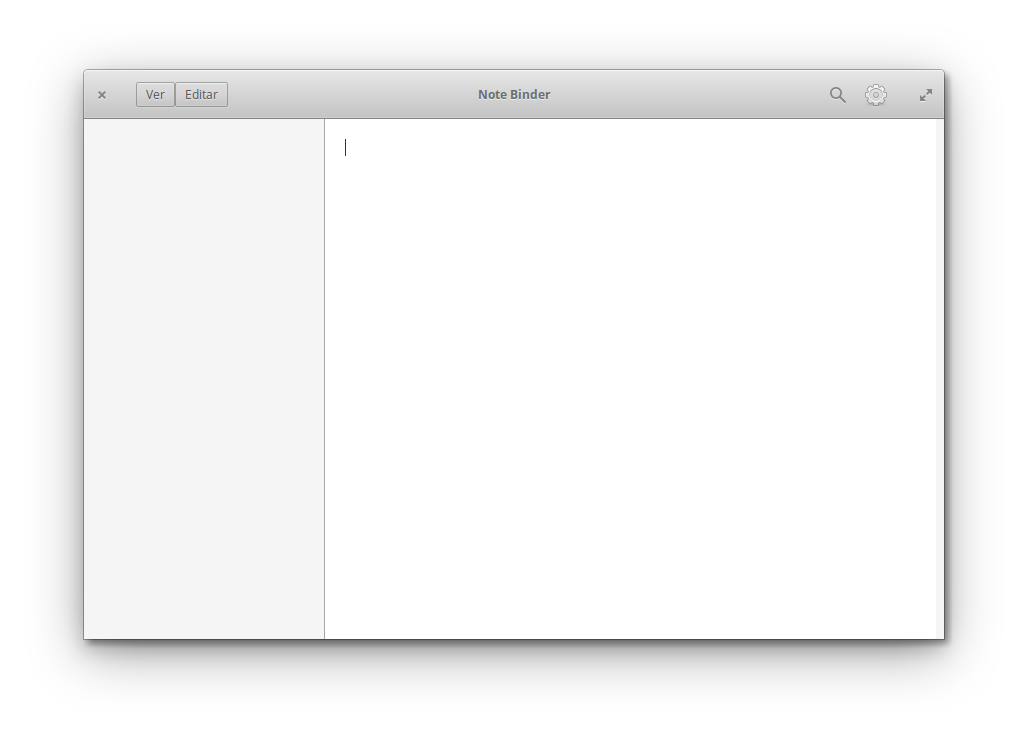
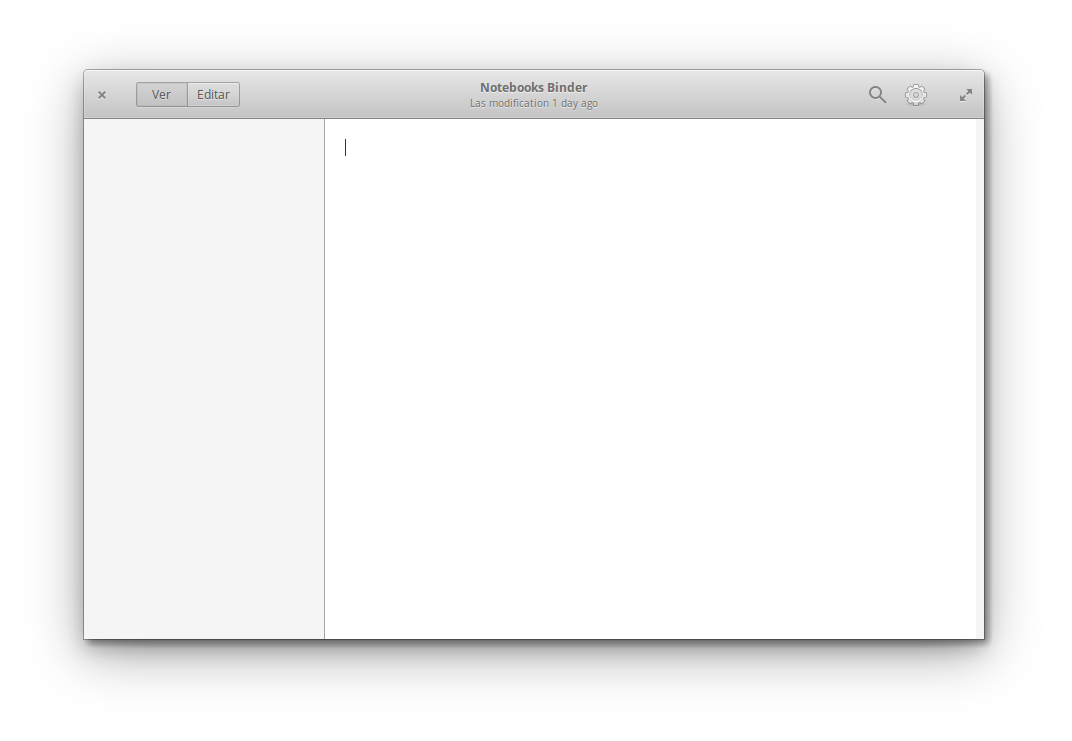
Adds Mode buttons and stylesheet

diff --git a/src/binder/data/application.css b/src/binder/data/application.css
@@ -1,0 +1,11 @@
+#main_window {
+    transition-property: background-color;
+    transition-duration: 300ms;
+}
+
+#main_window.edit_mode {
+    background-color: #fff;
+}
+
+#main_window.view_mode {
+}

diff --git a/src/binder/application.py b/src/binder/application.py
@@ -5,28 +5,45 @@ import gi
 from binder.widgets.Window import Window
 
 gi.require_version('Gtk', '3.0')
-from gi.repository import Gio
-from gi.repository import Gtk, GObject
-from gi.repository import GtkSource
+gi.require_version('GtkSource', '3.0')
 
+from gi.repository import Gio
+from gi.repository import Gtk
+from gi.repository import Gdk
+from gi.repository import GObject
+from gi.repository import GtkSource
 
 
 class Application(Gtk.Application):
     def __init__(self):
         Gtk.Application.__init__(self, flags=Gio.ApplicationFlags.FLAGS_NONE)
         GObject.type_register(GtkSource.View)
-
-        self.running = False
-        self.license_type = Gtk.License.GPL_2_0
-        self.set_application_id('com.github.mariocesar.notebooks')
         self.program_name = 'binder'
+        self.license_type = Gtk.License.GPL_2_0
+        self.running = False
+        self.set_application_id('com.github.mariocesar.binder')
+
         self.builder = Gtk.Builder()
-        self.builder.add_from_file(os.path.join(os.path.dirname(__file__), 'data/main.ui'))
+        self.builder.set_application(self)
+        self.builder.add_from_file(os.path.join(os.path.dirname(__file__), 'data/main.glade'))
+
         self.get_object = self.builder.get_object
+
+    def get_main_window(self):
+        window = Window(self)
+        provider = Gtk.CssProvider()
+        provider.load_from_path(os.path.join(os.path.dirname(__file__), 'data/application.css'))
+
+        Gtk.StyleContext.add_provider_for_screen(
+            Gdk.Screen.get_default(),
+            provider,
+            Gtk.STYLE_PROVIDER_PRIORITY_APPLICATION
+        )
+        return window
 
     def do_activate(self):
         if not self.running:
-            self.window = Window(self)
+            self.window = self.get_main_window()
             self.add_window(self.window)
             self.running = True
 

diff --git a/src/binder/widgets/Window.py b/src/binder/widgets/Window.py
@@ -1,24 +1,32 @@
 import gi
 
+from binder.widgets.ModeButton import ModeButton
+
 gi.require_version('Gtk', '3.0')
 
 from gi.repository import Gtk
 
 
 class Window(Gtk.ApplicationWindow):
-    def __init__(self, app: Gtk.Application, **kwargs):
+    def __init__(self, app, **kwargs):
         super().__init__(**kwargs)
-        self.app = app
-        self.set_default_size(860, 520)
+        self.set_application(app)
+        self.set_default_size(900, 520)
+        self.set_name("main_window")
 
-        headerbar = self.app.get_object("headerbar")
-        pane = self.app.get_object("pane")
-        menu_button = self.app.get_object("menu_button")
-        search_button = self.app.get_object("search_button")
-
-        menu_button.set_image(Gtk.Image.new_from_icon_name("open-menu", Gtk.IconSize.LARGE_TOOLBAR))
-        search_button.set_image(Gtk.Image.new_from_icon_name("edit-find-symbolic", Gtk.IconSize.LARGE_TOOLBAR))
+        headerbar = app.get_object("headerbar")
+        pane = app.get_object("pane")
+        self.modebuttons = ModeButton(app)
+        self.modebuttons.connect('mode_changed', self.mode_changed)
 
         self.set_titlebar(headerbar)
         self.add(pane)
         self.show_all()
+
+    def mode_changed(self, *args):
+        context = self.get_style_context() # type: Gtk.StyleContext
+        if context.has_class(self.modebuttons.VIEW_MODE):
+            context.remove_class(self.modebuttons.VIEW_MODE)
+        elif context.has_class(self.modebuttons.EDIT_MODE):
+            context.remove_class(self.modebuttons.EDIT_MODE)
+        context.add_class(self.modebuttons.current_mode)

diff --git a/src/binder/widgets/ModeButton.py b/src/binder/widgets/ModeButton.py
@@ -1,0 +1,43 @@
+import gi
+
+gi.require_version('Gtk', '3.0')
+
+from gi.repository import Gtk, GObject
+
+
+class ModeButton(GObject.GObject):
+    EDIT_MODE = 'edit_mode'
+    VIEW_MODE = 'view_mode'
+
+    _mode = VIEW_MODE
+
+    __gsignals__ = {
+        'mode_changed': (GObject.SIGNAL_RUN_FIRST, None, (str,))
+    }
+
+    def __init__(self, app):
+        super().__init__()
+
+        edit_button = app.get_object(self.EDIT_MODE)  # type: Gtk.RadioButton
+        view_button = app.get_object(self.VIEW_MODE)  # type: Gtk.RadioButton
+
+        view_button.join_group(edit_button)
+        view_button.set_active(True)
+
+        edit_button.connect_after('toggled', self.toggled_mode)
+        view_button.connect_after('toggled', self.toggled_mode)
+
+    @property
+    def current_mode(self):
+        return self._mode
+
+    @current_mode.setter
+    def current_mode(self, value):
+        if value not in (self.EDIT_MODE, self.VIEW_MODE):
+            raise ValueError("Wrong mode")
+        self._mode = value
+        self.emit('mode_changed', self._mode)
+
+    def toggled_mode(self, widget: Gtk.RadioButton):
+        if widget.get_active():
+            self.current_mode = Gtk.Buildable.get_name(widget)

diff --git a/src/binder/cli.py b/src/binder/cli.py
@@ -16,12 +16,9 @@ usage = _("usage: %prog")
 
 
 class Command:
-    parser = OptionParser(
-        usage=usage,
-        version='%prog 0.1.dev1',
-    )
+    parser = OptionParser(usage=usage, version='%prog 0.1')
 
     def run(self):
-        (options, args) = self.parser.parse_args()
+        options, args = self.parser.parse_args()
         app = Application()
         app.run(sys.argv)
